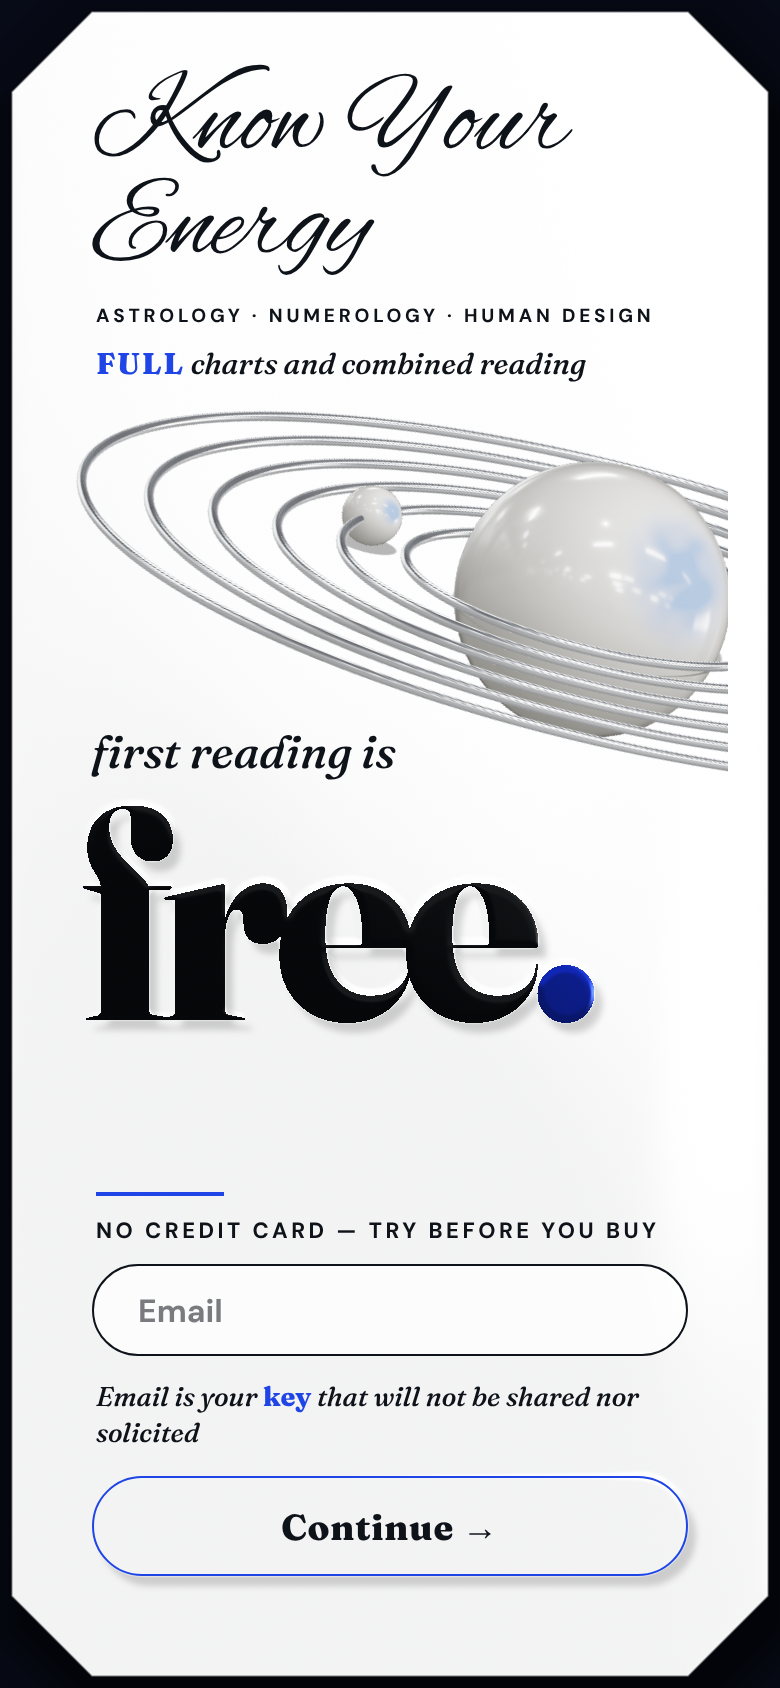
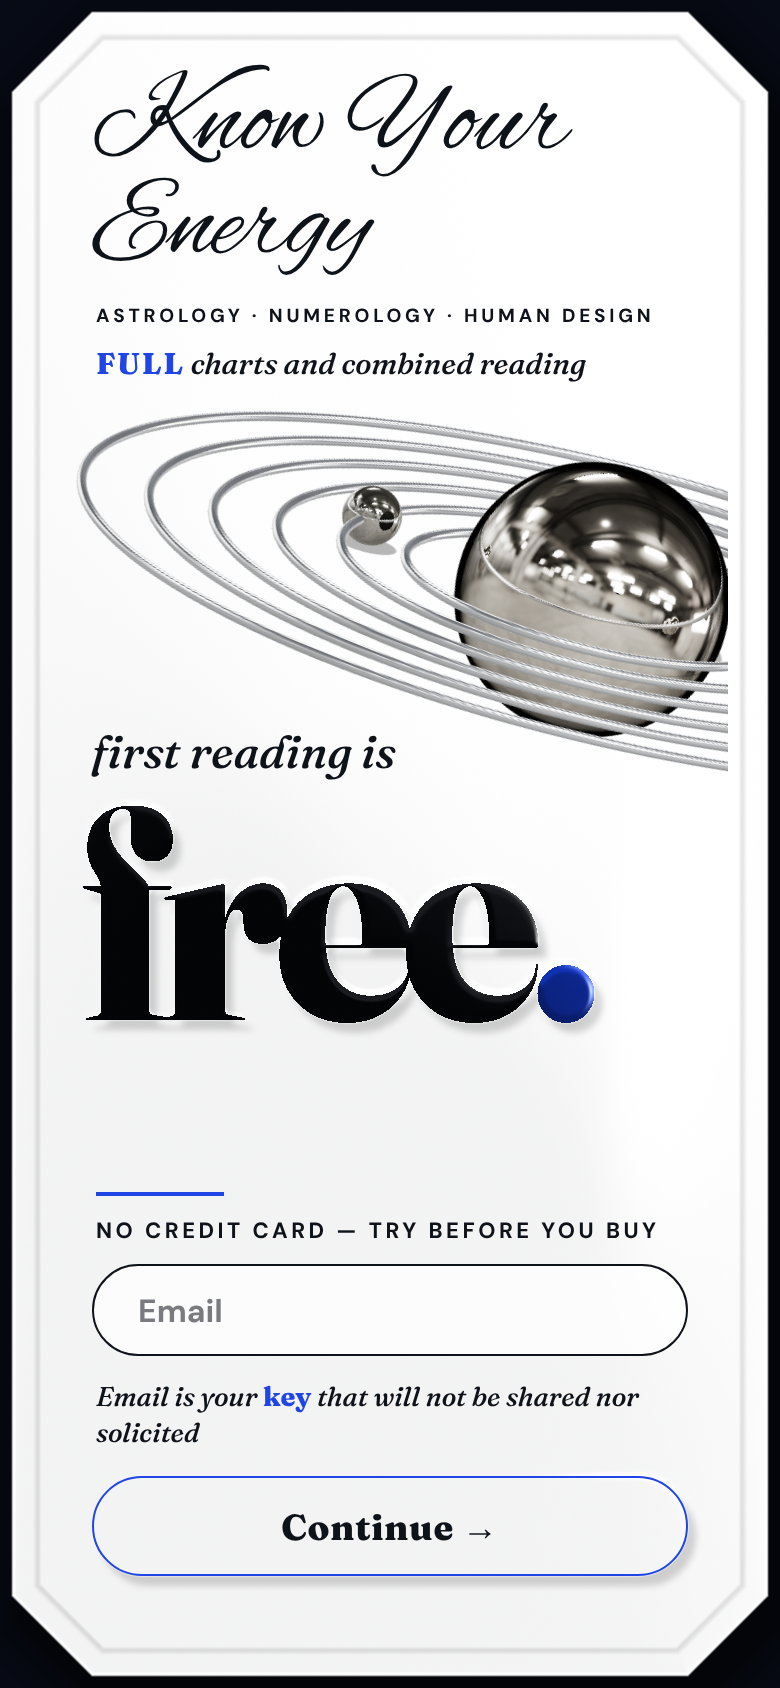
Plate page quality pass: bright bevel edge line, stronger curvature and sweep, original chrome solar system
Claude-Session: https://claude.ai/code/session_01DRAcaZvypgnSaCTMdJvvGx

Changed region(s): [[0.5846, 0.2464, 0.9538, 0.4621], [0.4308, 0.2773, 0.5231, 0.3389], [0.7385, 0.5545, 0.7692, 0.5853]]

diff --git a/metalpage/sys-chrome.js b/metalpage/sys-chrome.js
@@ -1,0 +1,81 @@
+/* the solar system as real 3D silver, lit by a real photographed room (CC0 HDRI, Poly Haven via @pmndrs/assets).
+   Geometry is taken 1:1 from the page's existing SVG: same centre, sun radius, ring radii, tilt, planets, orbit timing. */
+import * as THREE from 'three';
+import {EXRLoader} from '../vendor/loaders/EXRLoader.js';
+const Q=new URLSearchParams(''),ENVNAME=Q.get('env')||'warehouse',ENVROT=parseFloat(Q.get('rot')||'0.25');
+const host=document.getElementById('sys');
+// --- the page's own geometry (from index.html) ---
+const cx=180,cy=100,R_SUN=46,ROT=-8,RING_RX=[64,86,108,130,152,175];
+const SPECS=[[1,205,10],[2,20,10],[4,335,9],[1,15,9]],PERIOD=48;
+const TILT=Math.acos(.26);
+// --- renderer over the SVG box ---
+const renderer=new THREE.WebGLRenderer({antialias:true,alpha:true});
+renderer.toneMapping=THREE.ACESFilmicToneMapping;renderer.toneMappingExposure=1.0;renderer.outputColorSpace=THREE.SRGBColorSpace;
+renderer.shadowMap.enabled=true;renderer.shadowMap.type=THREE.PCFSoftShadowMap;
+const cv=renderer.domElement;cv.style.cssText='position:absolute;left:0;top:0;width:100%;height:100%;pointer-events:none;';host.appendChild(cv);
+const camera=new THREE.OrthographicCamera(-8,368,-20,-205,-2000,2000);camera.position.z=1000;
+const scene=new THREE.Scene();
+// --- the real room the silver reflects ---
+const eq=await new EXRLoader().setDataType(THREE.FloatType).loadAsync(`../hdri/${ENVNAME}.exr`);
+{ // silver, not tinted: pull the room's colour most of the way to neutral
+  const SAT=parseFloat(Q.get('sat')||'0.15'),d=eq.image.data,n=eq.image.width*eq.image.height,ch=d.length/n;
+  for(let i=0;i<n;i++){const k=i*ch,l=.2126*d[k]+.7152*d[k+1]+.0722*d[k+2];for(let c=0;c<3;c++)d[k+c]=l+(d[k+c]-l)*SAT;}
+  const BL=parseInt(Q.get('blur')||'2'),w=eq.image.width,h=eq.image.height,tmp=new Float32Array(d.length);
+  for(let pass=0;pass<2;pass++){const src=pass?tmp:d,dst=pass?d:tmp;
+    for(let y=0;y<h;y++)for(let x=0;x<w;x++){let r=0,g=0,b=0,c=0;
+      for(let k=-BL;k<=BL;k++){const xx=pass?x:((x+k)%w+w)%w,yy=pass?Math.min(h-1,Math.max(0,y+k)):y,j=(yy*w+xx)*ch;r+=src[j];g+=src[j+1];b+=src[j+2];c++;}
+      const o=(y*w+x)*ch;dst[o]=r/c;dst[o+1]=g/c;dst[o+2]=b/c;if(ch>3)dst[o+3]=src[o+3];}}
+  eq.needsUpdate=true;}
+eq.mapping=THREE.EquirectangularReflectionMapping;eq.wrapS=THREE.RepeatWrapping;eq.offset.x=ENVROT;
+const pmrem=new THREE.PMREMGenerator(renderer);const ENV=pmrem.fromEquirectangular(eq).texture;scene.environment=ENV;
+if(/[?&]look=(metal|base|final)\b/.test(location.search))window.__eq=eq;   // lets the page-wide metal scene reflect the same room
+
+// --- organic cast-silver surface for the planets (fractal noise, no geometric shapes) ---
+function cast(seed,band){const W=512,H=256,c=document.createElement('canvas');c.width=W;c.height=H;const g=c.getContext('2d'),im=g.createImageData(W,H);
+  const P=new Uint8Array(512);let s=seed;const rnd=()=>((s=(s*16807)%2147483647)/2147483647);const p=[...Array(256).keys()].sort(()=>rnd()-.5);for(let i=0;i<512;i++)P[i]=p[i&255];
+  const fade=t=>t*t*t*(t*(t*6-15)+10),lerp=(a,b,t)=>a+(b-a)*t;
+  const grad=(h,x,y)=>((h&1)?-x:x)+((h&2)?-y:y);
+  const noise=(x,y,per)=>{const X=Math.floor(x),Y=Math.floor(y),xf=x-X,yf=y-Y,u=fade(xf),v=fade(yf);
+    const xi=((X%per)+per)%per,xi1=(xi+1)%per,yi=Y&255,yi1=(Y+1)&255;
+    const aa=P[P[xi]+yi],ab=P[P[xi]+yi1],ba=P[P[xi1]+yi],bb=P[P[xi1]+yi1];
+    return lerp(lerp(grad(aa,xf,yf),grad(ba,xf-1,yf),u),lerp(grad(ab,xf,yf-1),grad(bb,xf-1,yf-1),u),v);};
+  for(let y=0;y<H;y++)for(let x=0;x<W;x++){let v=0,a=.5,f=8;
+    for(let o=0;o<6;o++){v+=a*noise(x/W*f,y/H*f*.5,f);a*=.55;f*=2;}
+    if(band)v+=.35*noise(0,y/H*14,1)*1.0;
+    const k=(y*W+x)*4,b=Math.max(0,Math.min(255,128+v*170));im.data[k]=im.data[k+1]=im.data[k+2]=b;im.data[k+3]=255;}
+  g.putImageData(im,0,0);const t=new THREE.CanvasTexture(c);t.colorSpace=THREE.NoColorSpace;t.wrapS=THREE.RepeatWrapping;t.anisotropy=8;return t;}
+// --- objects ---
+const outer=new THREE.Group();outer.position.set(cx,-cy,0);outer.rotation.z=THREE.MathUtils.degToRad(-ROT);scene.add(outer);
+const plane=new THREE.Group();plane.rotation.x=-TILT;outer.add(plane);
+const sun=new THREE.Mesh(new THREE.SphereGeometry(R_SUN,160,120),new THREE.MeshStandardMaterial({color:0xfff7ec,metalness:1,roughness:0,envMapIntensity:parseFloat(Q.get('sunI')||'1.6')}));
+sun.position.set(cx,-cy,0);sun.castShadow=true;scene.add(sun);
+const ringMat=new THREE.MeshStandardMaterial({color:new THREE.Color(Q.get('ring')||'#dfe2e7'),metalness:1,roughness:0,envMapIntensity:parseFloat(Q.get('ringI')||'1.25')});
+for(const rx of RING_RX)plane.add(new THREE.Mesh(new THREE.TorusGeometry(rx,1.65,24,400),ringMat));
+const planets=SPECS.map(([ri,a0,pr],i)=>{
+  const m=new THREE.Mesh(new THREE.SphereGeometry(pr,128,96),new THREE.MeshStandardMaterial({color:0xcfccc6,metalness:1,roughness:0}));
+  m.castShadow=true;plane.add(m);return {m,ri,a0};});
+// contact shadows on the ring plane (the "table")
+const nW=new THREE.Vector3(0,0,1).applyQuaternion(plane.getWorldQuaternion(new THREE.Quaternion()));
+const key=new THREE.DirectionalLight(0xffffff,.35);key.position.set(cx,-cy,0).addScaledVector(nW,900).add(new THREE.Vector3(-60,0,120));key.target.position.set(cx,-cy,0);
+key.castShadow=true;key.shadow.mapSize.set(2048,2048);key.shadow.radius=9;key.shadow.blurSamples=20;
+Object.assign(key.shadow.camera,{left:-320,right:320,top:320,bottom:-320,near:1,far:2000});scene.add(key,key.target);
+const catcher=new THREE.Mesh(new THREE.PlaneGeometry(900,900),new THREE.ShadowMaterial({opacity:.28}));catcher.position.set(0,0,-10.5);catcher.receiveShadow=true;plane.add(catcher);
+// live reflections: the sun shows the planets and rings, each planet shows the sun
+const cubeRT=new THREE.WebGLCubeRenderTarget(256,{type:THREE.HalfFloatType,generateMipmaps:false,minFilter:THREE.LinearFilter});
+const cubeCam=new THREE.CubeCamera(1,6000,cubeRT);cubeCam.position.copy(sun.position);scene.add(cubeCam);sun.material.envMap=cubeRT.texture;
+const pCubes=planets.map(p=>{const rt=new THREE.WebGLCubeRenderTarget(96,{type:THREE.HalfFloatType,generateMipmaps:false,minFilter:THREE.LinearFilter});
+  const cc=new THREE.CubeCamera(1,6000,rt);scene.add(cc);p.m.material.envMap=rt.texture;return {p,cc};});
+function capture(cc,hide){hide.visible=false;catcher.visible=false;scene.background=eq;cc.update(renderer,scene);scene.background=null;hide.visible=true;catcher.visible=true;}
+let pi=0;
+var place=function(t){for(const p of planets){const a=THREE.MathUtils.degToRad(p.a0+360*t/PERIOD),rx=RING_RX[p.ri];
+  p.m.position.set(rx*Math.cos(a),-rx*Math.sin(a),0);}}
+
+function size(){renderer.setPixelRatio(2);renderer.setSize(564,277,false);}size();
+const still=matchMedia('(prefers-reduced-motion: reduce)').matches||/[?&]still=1\b/.test(location.search),t0=performance.now();let first=true;
+function frame(now){place(still?0:(now-t0)/1000);
+  if(first){first=false;for(const q of pCubes){q.p.m.getWorldPosition(q.cc.position);capture(q.cc,q.p.m);}}
+  capture(cubeCam,sun);const q=pCubes[pi=(pi+1)%pCubes.length];q.p.m.getWorldPosition(q.cc.position);capture(q.cc,q.p.m);
+  renderer.render(scene,camera);if(window.__reflHook)window.__reflHook(cv);   // lets the page mirror the solar system in the sheet beneath it
+  document.body.dataset.sys='1';
+  if(!still)requestAnimationFrame(frame);}
+requestAnimationFrame(frame);

diff --git a/metalpage/v2.html b/metalpage/v2.html
@@ -43,14 +43,14 @@ float sdPlate(vec2 q){ // css px, plate centred at (195,422)
   float d1=max(q.x-189.,q.y-416.);
   float d2=(q.x+q.y-(189.+416.-40.))*.70711;
   return max(d1,d2);}
-float bevel(float sd){float t=clamp(-sd/9.,0.,1.);return 9.*sqrt(max(1.-(1.-t)*(1.-t),0.));}
-float dome(vec2 p){float d=dot(p/vec2(.62,1.12),p/vec2(.62,1.12));return 1.7*(1.-pow(min(d,1.7)/1.7,1.25));}
+float bevel(float sd){float t=clamp(-sd/14.,0.,1.);return 14.*sqrt(max(1.-(1.-t)*(1.-t),0.));}
+float dome(vec2 p){float d=dot(p/vec2(.62,1.12),p/vec2(.62,1.12));return 2.3*(1.-pow(min(d,1.7)/1.7,1.25));}
 vec2 px2uv(vec2 px){return vec2(px.x/390.,1.-px.y/844.);}
 float bump(vec2 px){return texture2D(uH,px2uv(px)).r*5.;}
 float Ht(vec2 px){vec2 p=(px-vec2(195.,422.))/390.;p.y=-p.y;return dome(p)+(bevel(sdPlate(px))+bump(px))/390.;}
 float roomBase(vec3 r){float sky=smoothstep(-.30,.42,r.y+.25*r.x);return mix(.86,1.45,sky);}
 float rb(vec2 q,vec2 h,float rad){vec2 d=abs(q)-h+rad;return 1.-smoothstep(-.004,.004,length(max(d,0.))+min(max(d.x,d.y),0.)-rad);}
-float roomK(vec3 r){return exp((dot(r,uL1)-1.)/.010)*3.4+exp((dot(r,uL2)-1.)/.014)*2.4+exp((dot(r,uL1)-1.)/.060)*1.1;}
+float roomK(vec3 r){return exp((dot(r,uL1)-1.)/.010)*3.4+exp((dot(r,uL2)-1.)/.014)*2.4+exp((dot(r,uL1)-1.)/.090)*1.5;}
 void main(){
   vec2 px=vec2(gl_FragCoord.x/R.x*390.,(1.-gl_FragCoord.y/R.y)*844.);
   float sd=sdPlate(px);
@@ -75,6 +75,9 @@ void main(){
     if(id.r>.5){c=uWord*(.6+.8*(base-.9))+vec3(.12)*(base-.9)*step(max(uWord.r,max(uWord.g,uWord.b)),.1)+vec3(.9)*k*.30;}
     // the full stop: one deep blue
     if(id.g>.5){c=uStop*(.55+.6*(base-.9))+vec3(.9)*k*.30;}
+    // bright polished edge line and a fine dark inner line where the bevel meets the face
+    c=mix(c,vec3(1.),.85*smoothstep(-2.4,-1.3,sd)*(1.-smoothstep(-1.3,-.2,sd)));
+    c*=1.-.10*smoothstep(-15.,-13.,sd)*(1.-smoothstep(-13.,-10.,sd));
     c+=(hash(vec3(gl_FragCoord.xy,1.))-.5)/255.;
     float a=1.-smoothstep(-.7,.7,sd);
     col=mix(col,clamp(c,0.,1.),a);
@@ -130,5 +133,5 @@ if(!Q.has('still')){
 }
 })();
 </script>
-<script type="module" src="sys-module.js"></script>
+<script type="module" src="sys-chrome.js"></script>
 </body></html>
